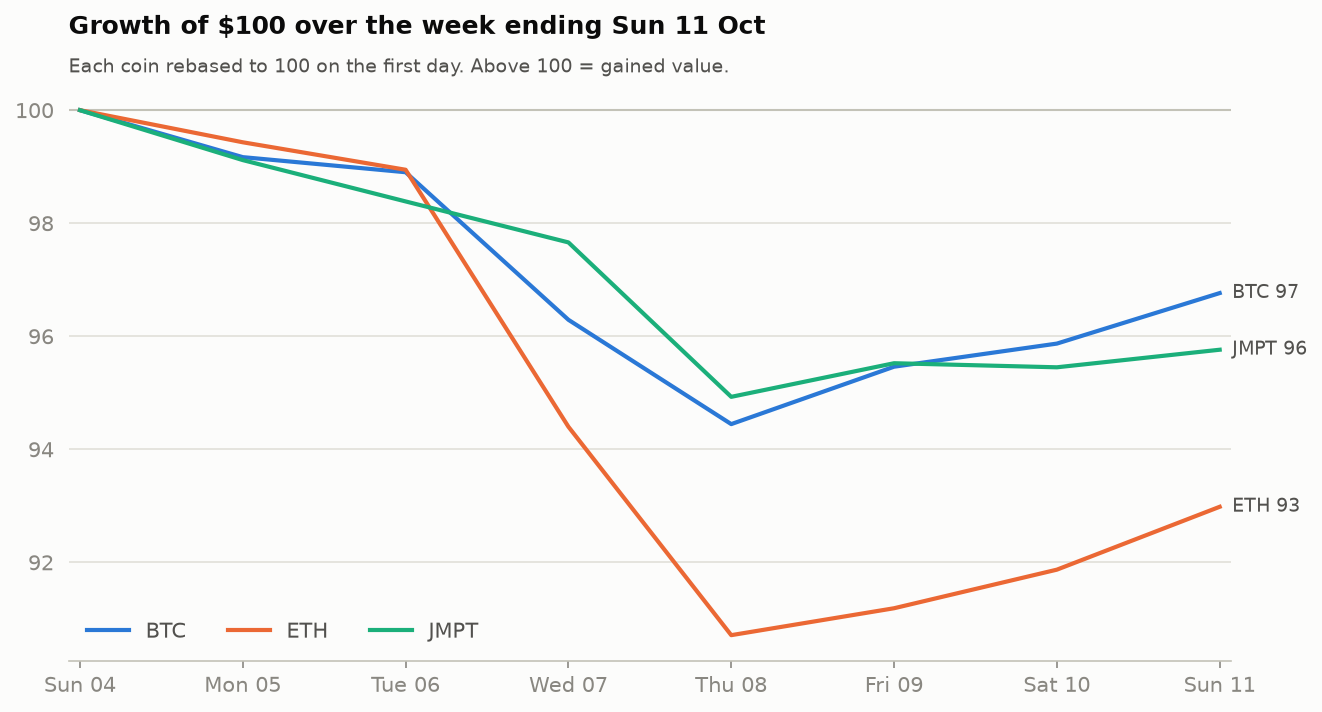
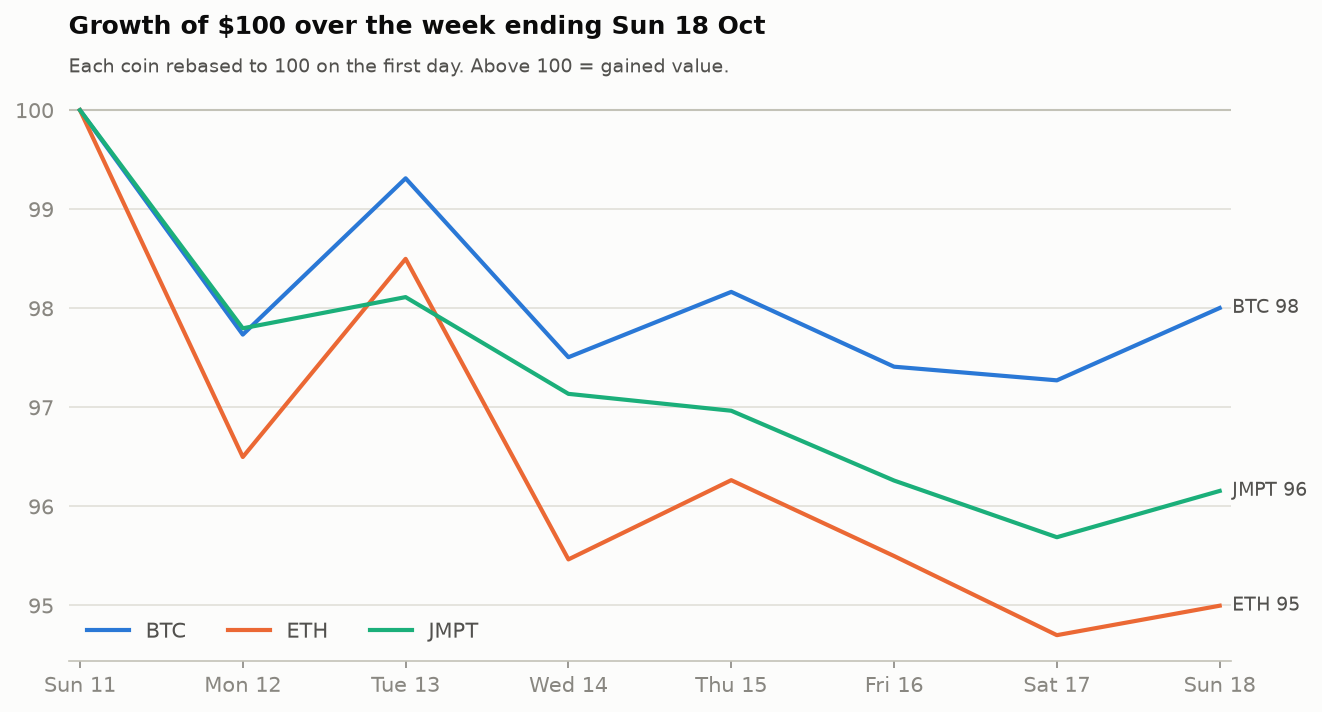
post: weekly LinkedIn draft 2026-10-19

diff --git a/posts/latest.md b/posts/latest.md
@@ -1,13 +1,13 @@
-📈 My crypto tracker: week ending Sun 11 Oct
+📈 My crypto tracker: week ending Sun 18 Oct
 
-A red week across the board. BTC held up best (-3.2%).
+A red week across the board. BTC held up best (-2.0%).
 
-🔴 BTC: -3.2% ($83,691)
-🔴 JMPT: -4.2% ($0.5562)
-🔴 ETH: -7.0% ($2,535)
+🔴 BTC: -2.0% ($82,020)
+🔴 JMPT: -3.8% ($0.5348)
+🔴 ETH: -5.0% ($2,408)
 
-⚡ Biggest single-day move: ETH -4.6% on Wednesday.
-📊 Calmest coin over the last 30 days: JMPT (21% annualized volatility).
+⚡ Biggest single-day move: ETH -3.5% on Monday.
+📊 Calmest coin over the last 30 days: JMPT (20% annualized volatility).
 
 ✍ [Add one sentence of your own here. What surprised you this week?]
 
